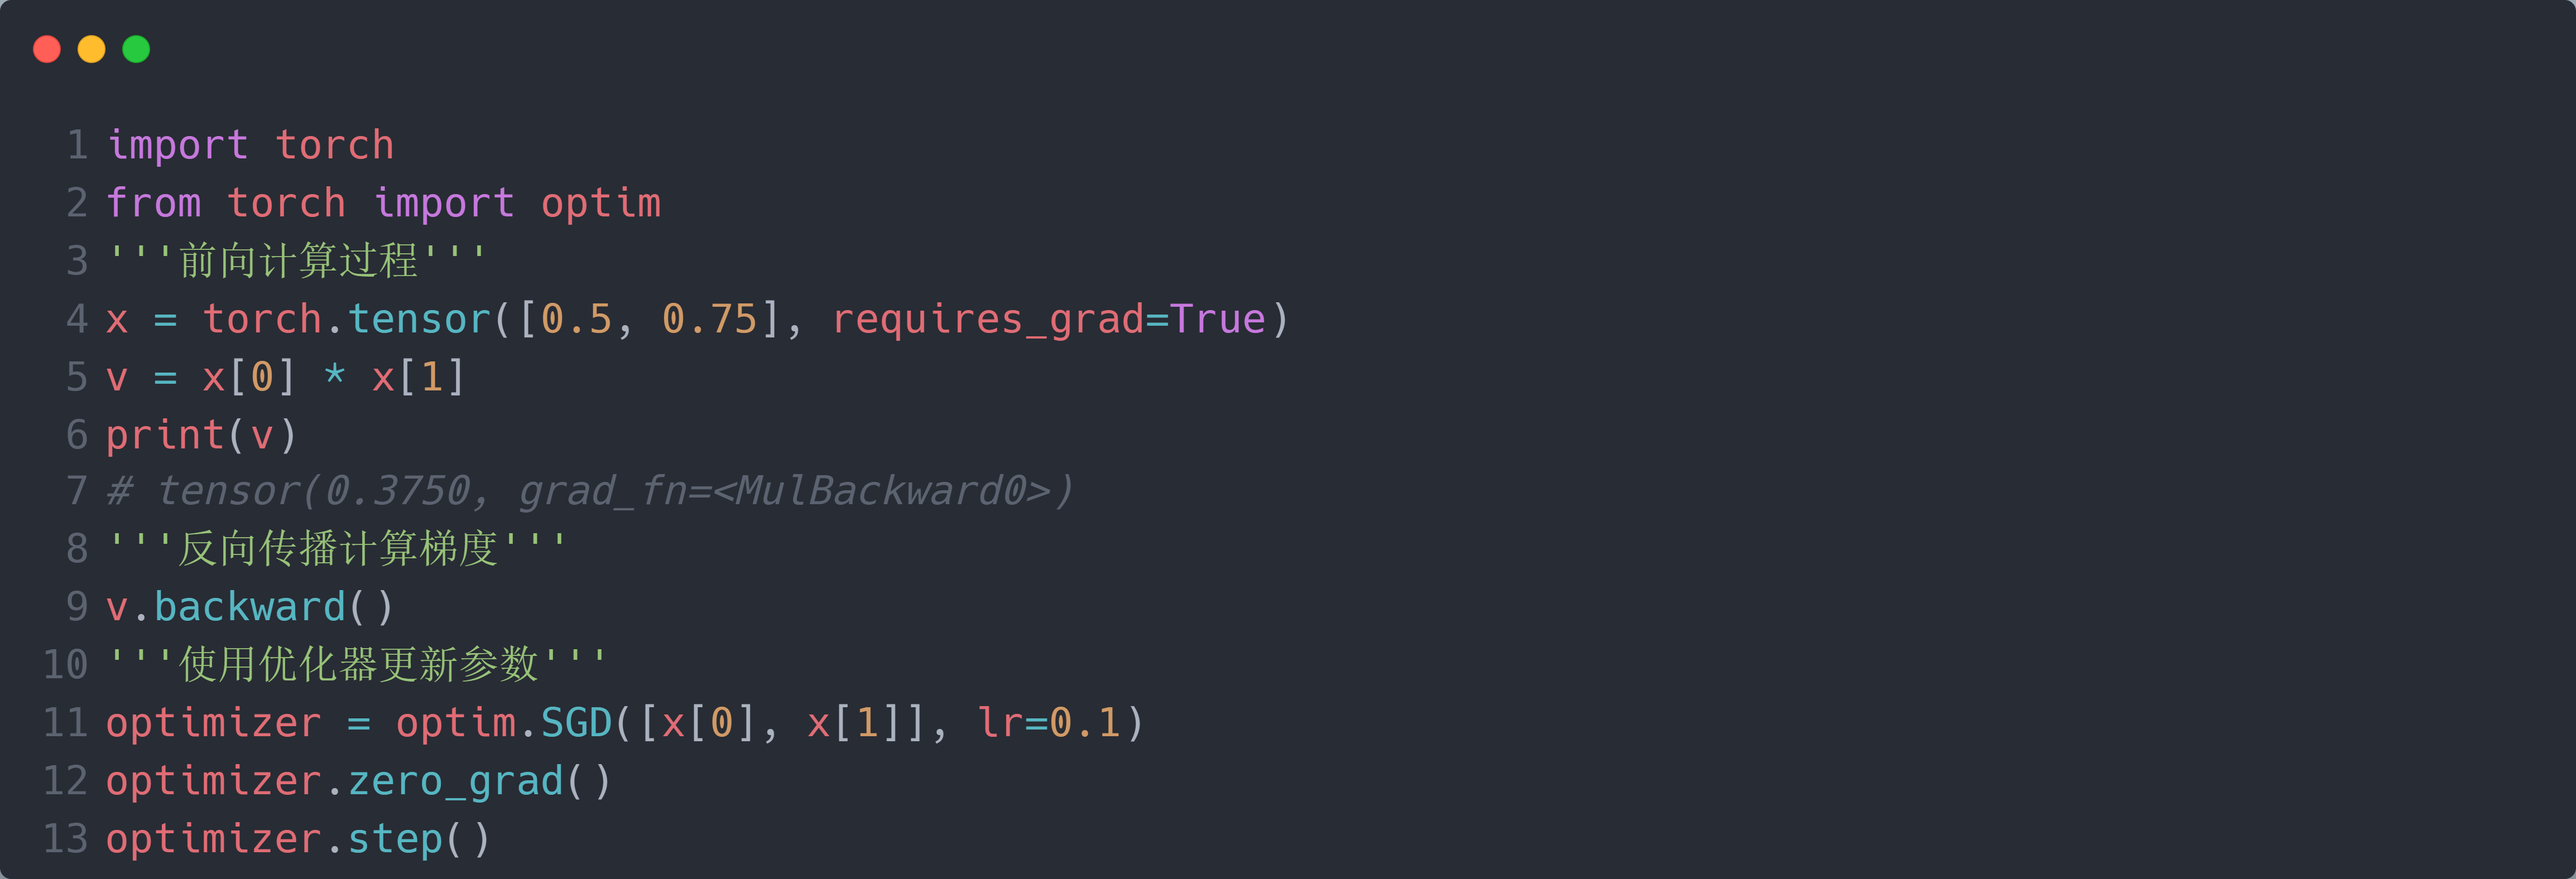
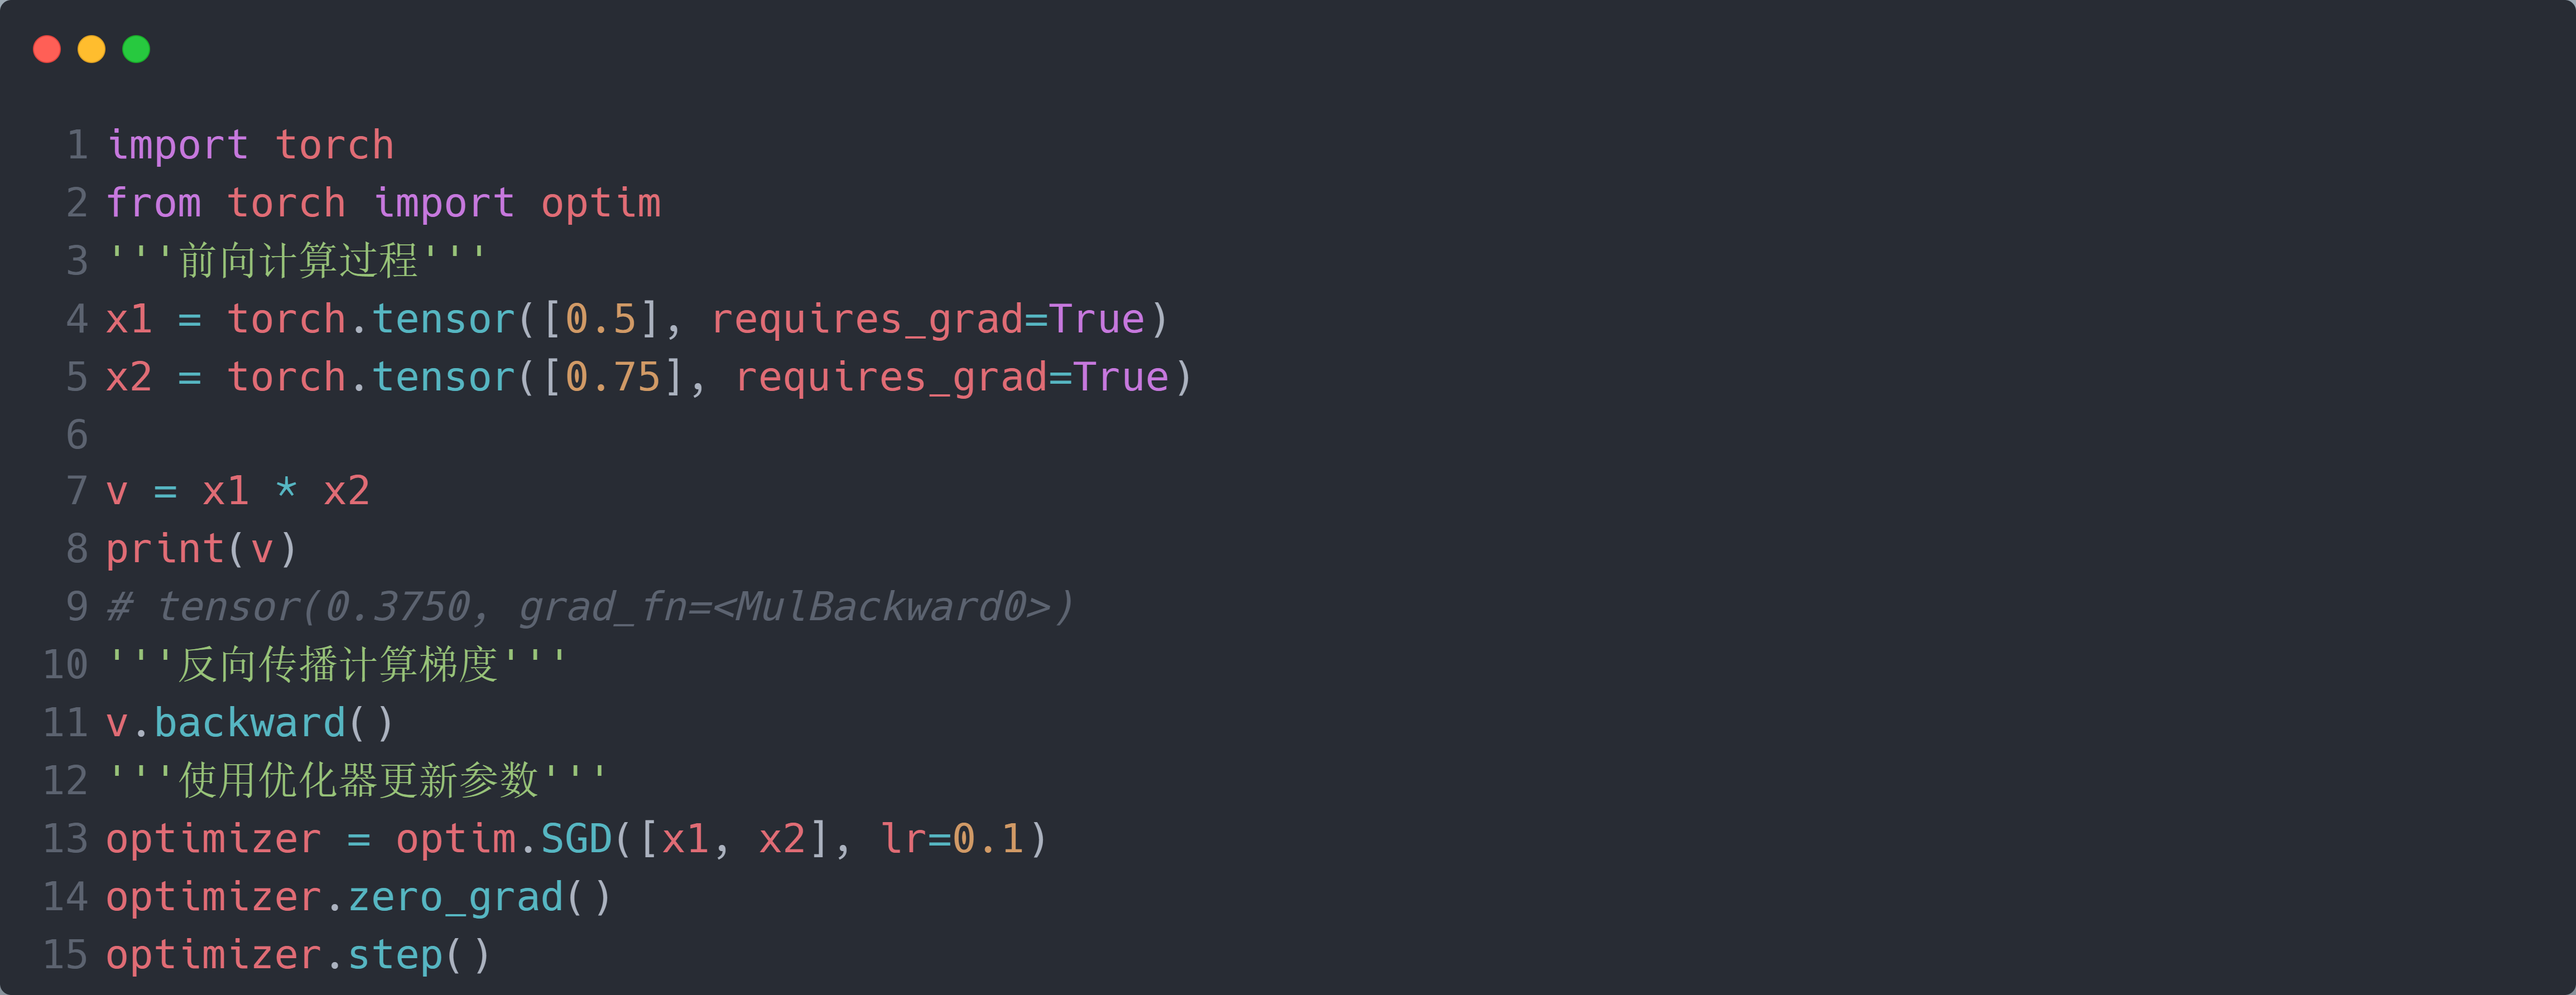
update the blog torch pipeline

diff --git a/_posts/2024-05-03-blog-torch-pipeline.md b/_posts/2024-05-03-blog-torch-pipeline.md
@@ -21,13 +21,17 @@ tags:
 
 ![simple torch DAG](/images/simple_torch_DAG.png)
 
-<p style="text-align:justify; text-justify:inter-ideograph;">可以看到，计算图的方向与前向计算过程刚好相反。这里，我们将简单描述 Torch 训练的整体流程：在执行乘法过程中，Torch 为 $x$ 构建一个<code style="color: #B58900">AccumulateGrad</code>节点，并将 $x$ 存储在<code style="color: #B58900">AccumulateGrad</code>节点的<code style="color: #B58900">variable</code>属性中；接着根据<code style="color: #B58900">[0]</code>和<code style="color: #B58900">[1]</code>的索引选择操作分别为 $x_1$ 和 $x_2$ 构建一个<code style="color: #B58900">SelectBackwrad0</code>节点，并将其存储在 $x_1$ 和 $x_2$ 的<code style="color: #B58900">grad_fn</code>属性中；然后根据<code style="color: #B58900">*</code>的乘法操作为 $v$ 构建一个<code style="color: #B58900">MulBackwrad0</code>节点，并将其存储在 $v$ 的<code style="color: #B58900">grad_fn</code>属性中。</p>
+<p style="text-align:justify; text-justify:inter-ideograph;">可以看到，计算图的方向与前向计算过程刚好相反。这里，我们将简单描述 Torch 训练的整体流程：在执行乘法过程中，Torc分别为 $x_1$ 和 $x_2$ 构建一个<code style="color: #B58900">AccumulateGrad</code>节点，并将 $x_1$ / $x_2$ 存储在对应的<code style="color: #B58900">AccumulateGrad</code>节点的<code style="color: #B58900">variable</code>属性中；然后根据<code style="color: #B58900">*</code>的乘法操作为 $v$ 构建一个<code style="color: #B58900">MulBackwrad0</code>节点，并将其存储在 $v$ 的<code style="color: #B58900">grad_fn</code>属性中。</p>
 
-<p style="text-align:justify; text-justify:inter-ideograph;">而在后向传播计算梯度的过程中，执行<code style="color: #B58900">v.backward()</code>函数时，Torch 首先会获取到存储在 $v$ 的<code style="color: #B58900">grad_fn</code>属性中<code style="color: #B58900">MulBackwrad0</code>节点，然后将初始梯度<code style="color: #B58900">gradient</code>作为输入传递给其<code style="color: #B58900">.backward()</code>函数计算该节点的输入的梯度，即 $x_1$ 和 $x_2$ 的梯度；接着将 $x_1$ 和 $x_2$ 的梯度作为输入传递给其<code style="color: #B58900">grad_fn</code>属性中的<code style="color: #B58900">SelectBackwrad0</code>节点的<code style="color: #B58900">.backward()</code>函数计算该节点的输入 $x$ 的梯度；最后将 $x$ 的梯度作为输入传递给<code style="color: #B58900">AccumulateGrad</code>节点的<code style="color: #B58900">.backward()</code>函数实现将梯度累加到 $x$ 的<code style="color: #B58900">.grad</code>属性中。</p>
+<p style="text-align:justify; text-justify:inter-ideograph;">而在后向传播计算梯度的过程中，执行<code style="color: #B58900">v.backward()</code>函数时，Torch 首先会获取到存储在 $v$ 的<code style="color: #B58900">grad_fn</code>属性中<code style="color: #B58900">MulBackwrad0</code>节点，然后将初始梯度<code style="color: #B58900">gradient</code>作为输入传递给其<code style="color: #B58900">.backward()</code>函数计算该节点的输入的梯度，即 $x_1$ 和 $x_2$ 的梯度；接着将 $x_1$ 和 $x_2$ 的梯度作为输入传递给各自对应的<code style="color: #B58900">AccumulateGrad</code>节点的<code style="color: #B58900">.backward()</code>函数实现将梯度累加到 $x_1$ 和 $x_2$ 的<code style="color: #B58900">.grad</code>属性中。</p>
 
 <p style="text-align:justify; text-justify:inter-ideograph;">在 SGD 优化器更新 $x_1$ 和 $x_2$ 的过程中，SGD 的<code style="color: #B58900">step()</code>函数遍历初始化时的<code style="color: #B58900">params</code>参数，判断其<code style="color: #B58900">required_grad</code>属性是否为<code style="color: #B58900">True</code>，若为<code style="color: #B58900">True</code>，则取出其<code style="color: #B58900">data</code>属性和<code style="color: #B58900">grad</code>属性，将<code style="color: #B58900">data</code>减去<code style="color: #B58900">grad</code>，得到更新后的参数<code style="color: #B58900">params</code>。</p>
 
 # 前向过程构建计算图
+
+<p style="text-align:justify; text-justify:inter-ideograph;">介绍基本知识：Node $\rightarrow$ Edge $\rightarrow$ MulBackward0</p>
+
+<p style="text-align:justify; text-justify:inter-ideograph;">叙述过程：Tensor.mul $\rightarrow$ torch._C._TensorBase.__mul__ $\rightarrow$ mul_Tensor $\rightarrow$ collect_next_edges $\rightarrow$ gradient_edge $\rightarrow$ set_next_edges $\rightarrow$ set_history $\rightarrow$ set_gradient_edge</p>
 
 <p style="text-align:justify; text-justify:inter-ideograph;">不知道你们有没有这样的疑惑：在我们的代码中，只是简单的编写了两个<code style="color: #B58900">tensor</code>的矩阵相乘：<code style="color: #B58900">tensor = tensor1 @ tensor2</code>；而 PyTorch 便自动为我们构建了一个计算图（可以看到<code style="color: #B58900">tensor</code>的<code style="color: #B58900">.grad_fn</code>属性为<code style="color: #B58900">MulBackward0</code>；如果<code style="color: #B58900">tensor1 / tensor2</code>的<code style="color: #B58900">.required_grad</code>属性为<code style="color: #B58900">True</code>）。这是如何实现的？实际上，PyTorch 在<code style="color: #B58900">Tensor</code>类中实现了对每个初等函数的<b>重载</b>。例如对于<code style="color: #B58900">mul</code>操作，<code style="color: #B58900">Tensor</code>类内的重载实现为：</p>
 
